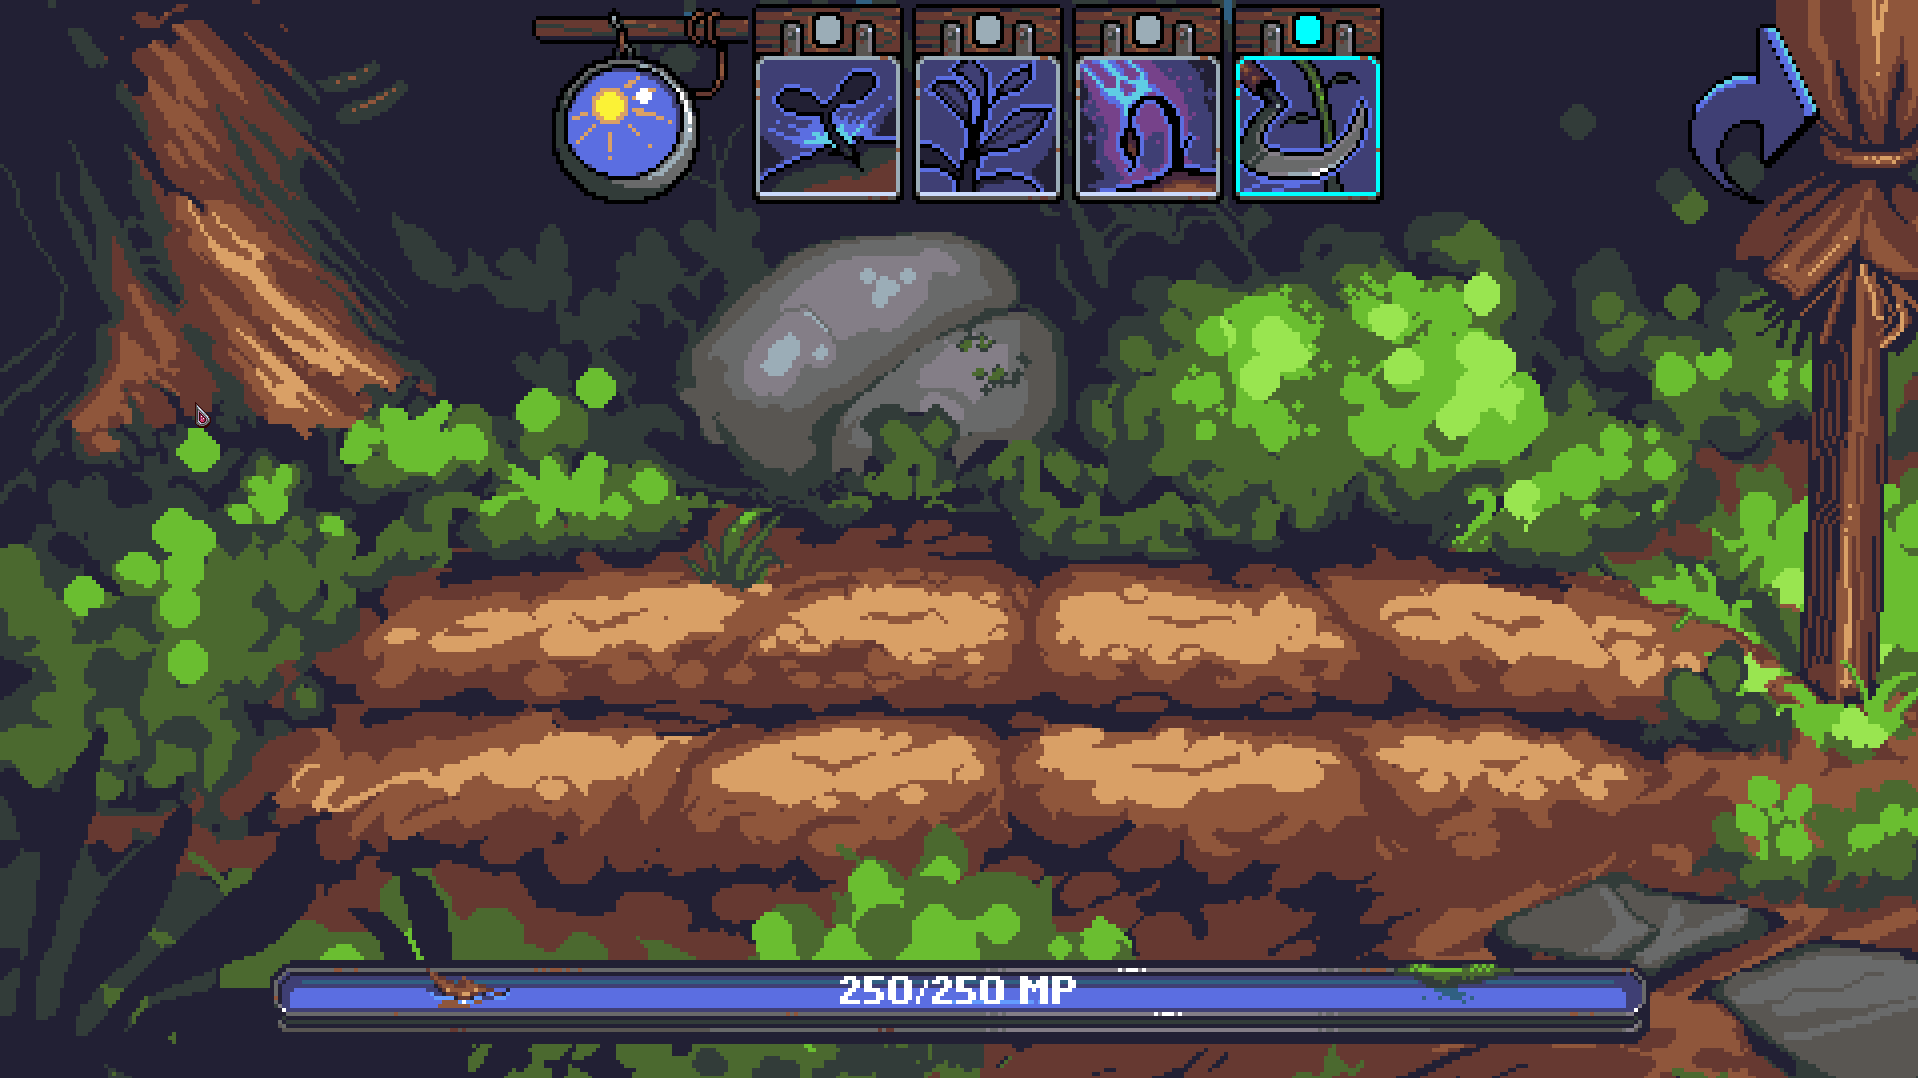
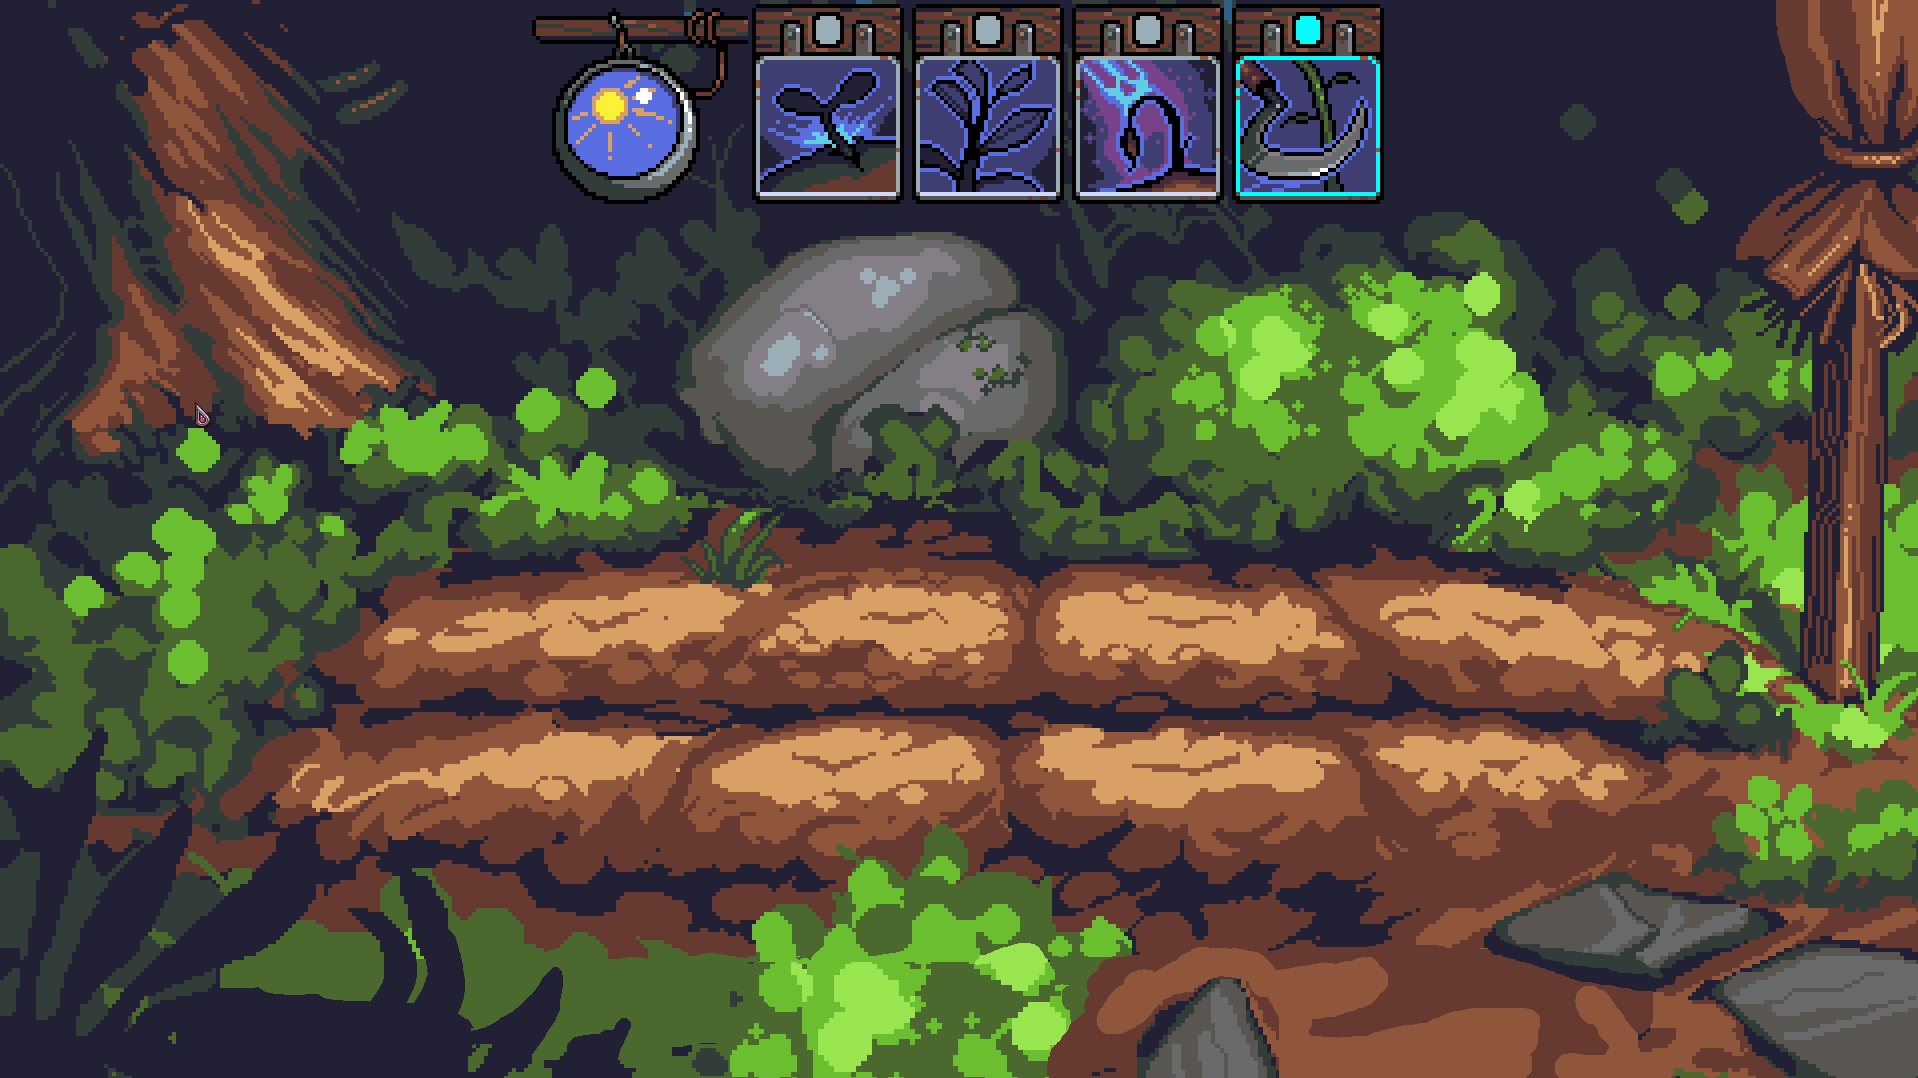
update cauca ngay va dem va hinh anh cho nong trai

Changed region(s): [[0.123, 0.8571, 0.8613, 1.0], [0.8613, 0.0306, 0.9536, 0.1837]]

diff --git a/src/scenes/village.py b/src/scenes/village.py
@@ -1,0 +1,91 @@
+import pygame
+from src.core.player import Player
+from src.utils.constants import SCREEN_WIDTH, SCREEN_HEIGHT, WHITE, BLACK
+
+# Không khởi tạo pygame.init() ở đây, sẽ khởi tạo trong main.py
+
+class VillageScene:
+    def __init__(self, player, time_system, screen):
+        self.player = player
+        self.time_system = time_system
+        self.screen = screen
+        pygame.display.set_caption("Khu vực làng")
+
+        # Đường dẫn đến các file background
+        self.day_background_path = "D:/Python game/doAnPython/assets/images/backgrounds/background-ngoilang.png"
+        self.night_background_path = "D:/Python game/doAnPython/assets/images/backgrounds/background-ngoilang-dem.png"
+
+        try:
+            # Tải và scale background ban ngày
+            self.day_background = pygame.image.load(self.day_background_path).convert()
+            self.day_background = pygame.transform.scale(self.day_background, (SCREEN_WIDTH, SCREEN_HEIGHT))
+
+            # Tải và scale background ban đêm
+            self.night_background = pygame.image.load(self.night_background_path).convert()
+            self.night_background = pygame.transform.scale(self.night_background, (SCREEN_WIDTH, SCREEN_HEIGHT))
+        except FileNotFoundError as e:
+            print(f"Lỗi: Không tìm thấy file - {e}")
+            raise
+
+        # Khu vực tương tác
+        self.fishing_sign_rect = pygame.Rect(300, 200, 200, 150)  # Đi đến khu vực câu cá
+        self.home_sign_rect = pygame.Rect(50, 500, 100, 50)      # Quay về nhà
+        self.market_sign_rect = pygame.Rect(650, 500, 100, 50)    # Đi đến chợ
+
+        # Hiệu ứng hover
+        self.hover_color = (200, 200, 200, 128)
+        self.hover_surface = pygame.Surface((self.fishing_sign_rect.width, self.fishing_sign_rect.height), pygame.SRCALPHA)
+        self.hover_surface.fill(self.hover_color)
+
+        self.running = True
+
+    def run(self):
+        clock = pygame.time.Clock()
+
+        while self.running:
+            mouse_pos = pygame.mouse.get_pos()
+            for event in pygame.event.get():
+                if event.type == pygame.QUIT:
+                    self.running = False
+                elif event.type == pygame.MOUSEBUTTONDOWN:
+                    self.handle_click(mouse_pos)
+
+            # Chọn background dựa trên thời gian
+            time_of_day = self.time_system.get_time_of_day()
+            if time_of_day == "day":
+                self.screen.blit(self.day_background, (0, 0))
+            elif time_of_day == "night":
+                self.screen.blit(self.night_background, (0, 0))
+
+            # Hiệu ứng hover khi chuột di qua khu vực câu cá
+            if self.fishing_sign_rect.collidepoint(mouse_pos):
+                self.screen.blit(self.hover_surface, (self.fishing_sign_rect.x, self.fishing_sign_rect.y))
+
+            pygame.display.flip()
+            clock.tick(60)
+
+    def handle_click(self, pos):
+        if self.fishing_sign_rect.collidepoint(pos):
+            print("Đi đến khu vực câu cá!")
+            self.running = False  # Thoát để chuyển scene (sẽ xử lý trong main.py)
+        elif self.home_sign_rect.collidepoint(pos):
+            print("Quay về phòng ngủ!")
+            self.running = False
+        elif self.market_sign_rect.collidepoint(pos):
+            print("Đi đến chợ!")
+            self.running = False
+
+if __name__ == "__main__":
+    pygame.init()
+    screen = pygame.display.set_mode((SCREEN_WIDTH, SCREEN_HEIGHT))
+    from src.core.player import Player
+
+    class FakeTimeSystem:
+        def get_time_of_day(self):
+            return "night"  # Thay thành "night" để kiểm tra ban đêm
+
+    player = Player()
+    time_system = FakeTimeSystem()
+    village_scene = VillageScene(player, time_system, screen)
+    village_scene.run()
+    pygame.quit()

diff --git a/src/scenes/fishing.py b/src/scenes/fishing.py
@@ -2,10 +2,6 @@ import pygame
 from src.core.player import Player
 from src.actions.fishing_action import start_fishing
 from src.utils.constants import SCREEN_WIDTH, SCREEN_HEIGHT, WHITE, BLACK
-
-
-# Không khởi tạo pygame.init() ở đây, sẽ khởi tạo trong main.py
-
 class FishingScene:
     def __init__(self, player, time_system, screen):
         self.player = player
@@ -13,9 +9,17 @@ class FishingScene:
         self.screen = screen
         pygame.display.set_caption("Khu vực câu cá")
 
-        background_path = "../../assets/images/backgrounds/background-cauca.png"
-        self.background = pygame.image.load(background_path).convert()
-        self.background = pygame.transform.scale(self.background, (SCREEN_WIDTH, SCREEN_HEIGHT))
+        # Đường dẫn đến các file background
+        self.day_background_path = "../../assets/images/backgrounds/background-cauca.png"
+        self.night_background_path = "../../assets/images/backgrounds/background-cauca-dem.png"
+
+        # Tải và scale background ban ngày
+        self.day_background = pygame.image.load(self.day_background_path).convert()
+        self.day_background = pygame.transform.scale(self.day_background, (SCREEN_WIDTH, SCREEN_HEIGHT))
+
+        # Tải và scale background ban đêm
+        self.night_background = pygame.image.load(self.night_background_path).convert()
+        self.night_background = pygame.transform.scale(self.night_background, (SCREEN_WIDTH, SCREEN_HEIGHT))
 
         self.lake_rect = pygame.Rect(300, 200, 200, 150)
         self.home_sign_rect = pygame.Rect(50, 500, 100, 50)
@@ -38,7 +42,14 @@ class FishingScene:
                 elif event.type == pygame.MOUSEBUTTONDOWN:
                     self.handle_click(mouse_pos)
 
-            self.screen.blit(self.background, (0, 0))
+            # Kiểm tra thời gian để chọn background
+            time_of_day = self.time_system.get_time_of_day()
+            if time_of_day == "day":
+                self.screen.blit(self.day_background, (0, 0))
+            elif time_of_day == "night":
+                self.screen.blit(self.night_background, (0, 0))
+
+            # Vẽ hiệu ứng hover khi chuột di qua hồ nước
             if self.lake_rect.collidepoint(mouse_pos):
                 self.screen.blit(self.hover_surface, (self.lake_rect.x, self.lake_rect.y))
 
@@ -66,7 +77,7 @@ if __name__ == "__main__":
 
     class FakeTimeSystem:
         def get_time_of_day(self):
-            return "day"
+            return "night"  # Thay đổi thành "night" để kiểm tra background ban đêm
 
 
     player = Player()
